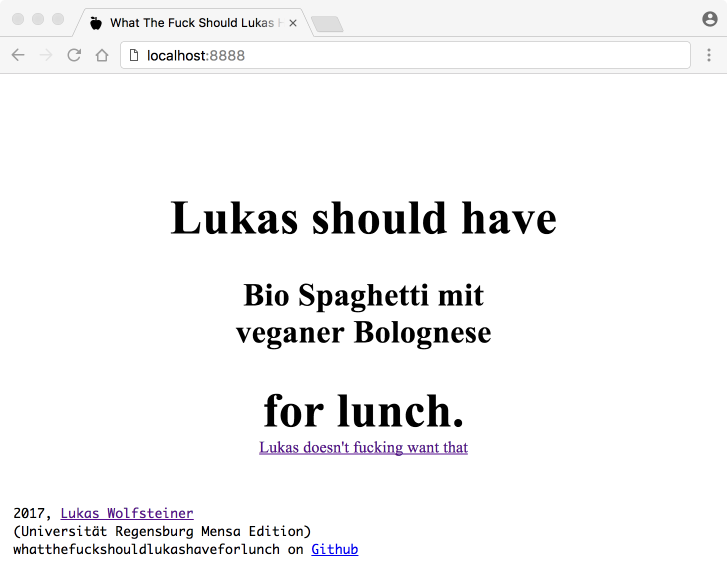
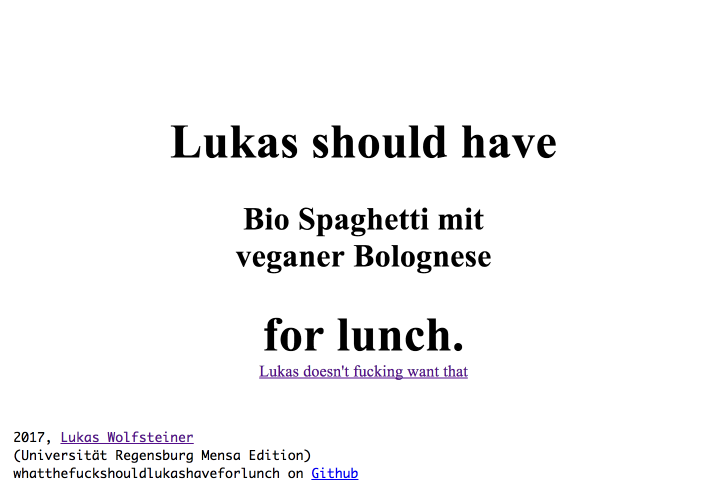
Add informations about execution with docker and update screenshot

diff --git a/README.md b/README.md
@@ -1,9 +1,19 @@
-## whatthefuckshouldlukashaveforlunch.com
+# whatthefuckshouldlukashaveforlunch.com
 
 Source-code of [whatthefuckshouldlukashaveforlunch.com](http://whatthefuckshouldlukashaveforlunch.com), written in some HTML, CSS & PHP.
 
 It returns a random item of today's meal menu at the university canteen Regensburg.
 
-#### Screenshot
+## Execution
 
-![screenshot](screenshot.png)
+Make sure you have Docker installed and running!
+
+Build it:
+
+    docker build -t whatfuckinglunch .
+    
+Run it: 
+
+    docker run -d -p 80:80 --name whatfuckinglunch whatfuckinglunch
+
+Try it: You should now be able to view it by opening [localhost:80](http://localhost:80).
